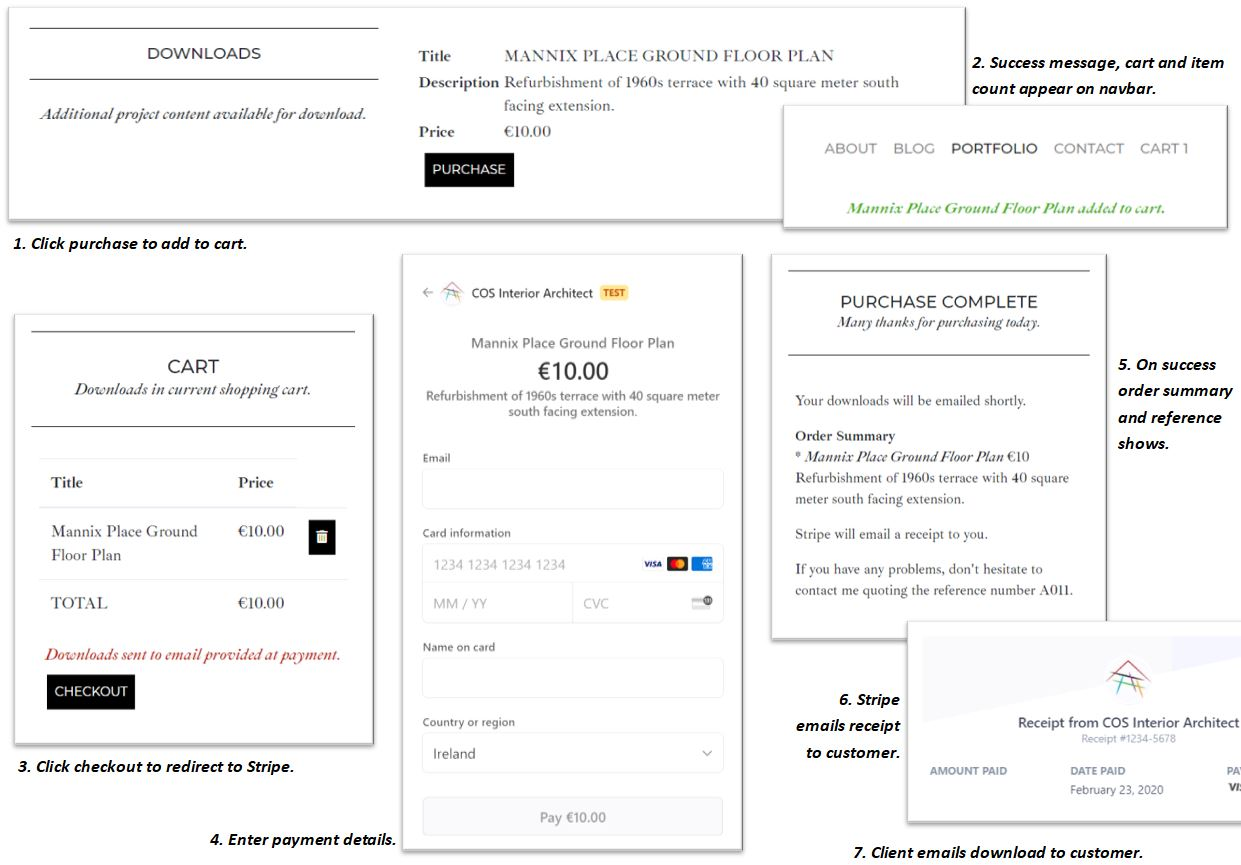
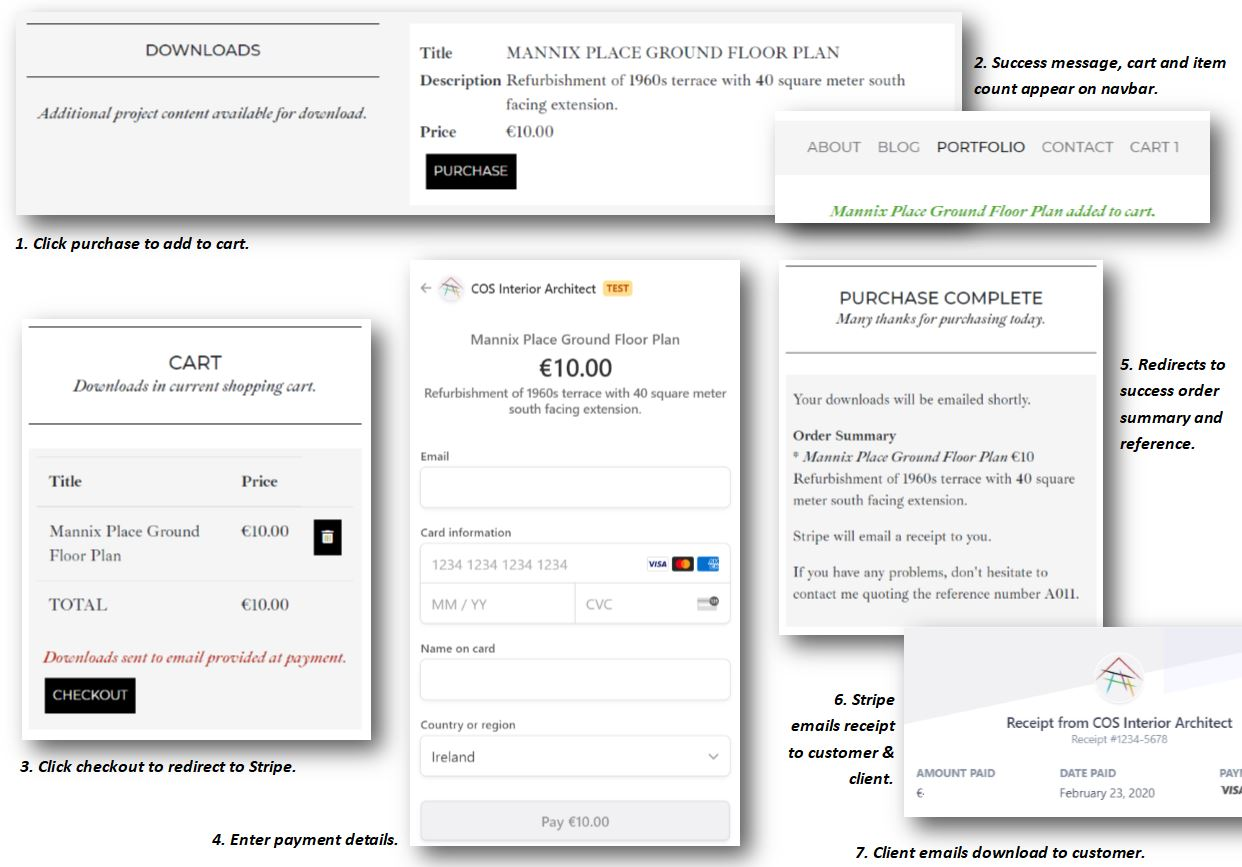
Update cart and contact apps

diff --git a/README.md b/README.md
@@ -132,9 +132,6 @@ App intro.
 
 ## Cart App
 
-![Contact Schema](https://github.com/coderbeez/interior-architect/blob/master/wireframes/images/cart_flow.JPG)
-*Diagram: Cart Flow*
-
 When it came to the Cart App, client requirements drove design decisions.
 
 Although the app gives the client an opprtunity to sell her project drawings, it's not the main purpose of the site, and she wanted a subtle approach. On the project detail page, if downloads are available, costed downloads appear with a purchase button and free downloads with a download button. The cart navbar menu item only appears after clicking purchase on a costed download.
@@ -146,6 +143,8 @@ Stripe Checkout was chosen as the payment option for the site. According to the 
 1. As a Stripe hosted option she doesn't have to worry about payment security.
 2. Stripe Checkout meets the 2019 European Strong Customer Authentication (SCA) requirements.
 3. A customisable interface still allowed her logo and colour scheme to be incorporated.
+4. Stripe notifications settings allowed the clients to receive an email after every successful payment.
+5. Stripe email settings allowed the client's customers to receive receipts directly from Stripe.
 
 ![Cart Schema](https://github.com/coderbeez/interior-architect/blob/master/wireframes/images/schema_cart.JPG)
 *Diagram: Cart Schema*
@@ -162,6 +161,9 @@ Stripe Checkout was chosen as the payment option for the site. According to the 
 | | Charge | - |
 | | Success | - |
 
+![Contact Schema](https://github.com/coderbeez/interior-architect/blob/master/wireframes/images/cart_flow.JPG)
+*Diagram: Cart Flow*
+
 ## Contact App
 
 App intro.
@@ -177,6 +179,9 @@ App intro.
 | **Template** | Contact | - |
 | | Contacts | Login required |
 | | Reply Email | - |
+
+![Cart Flow](https://github.com/coderbeez/interior-architect/blob/master/wireframes/images/contact_flow.JPG)
+*Diagram: Contact Flow*
 
 ## User App
 
